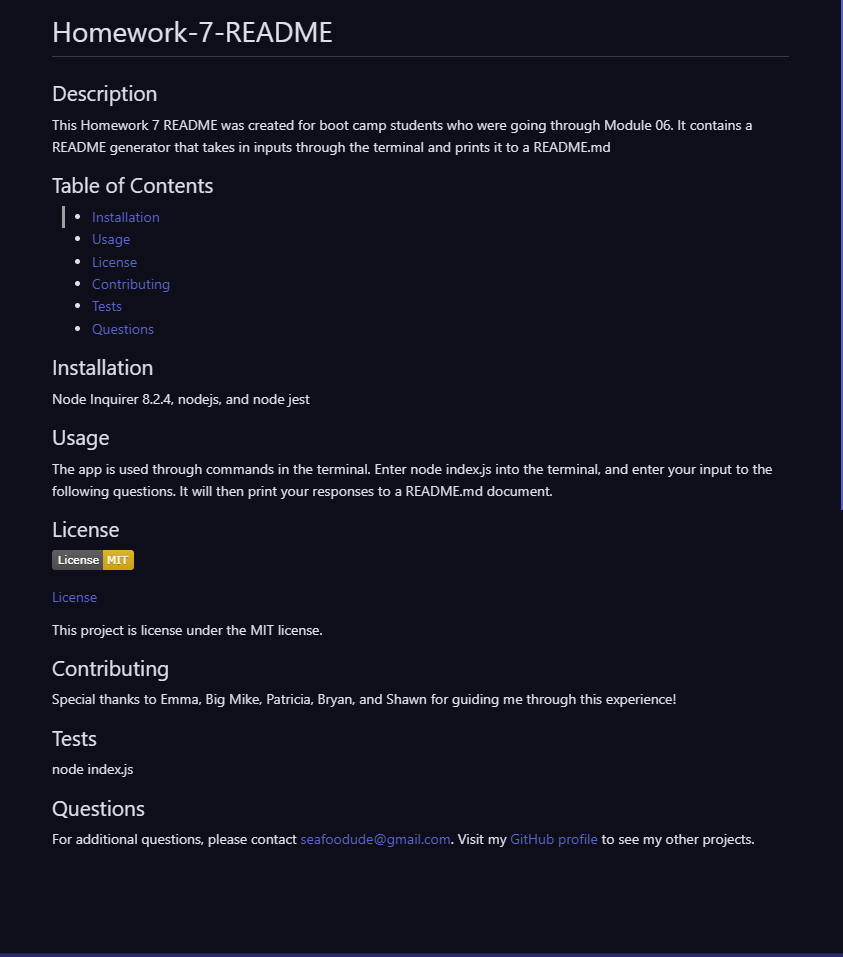
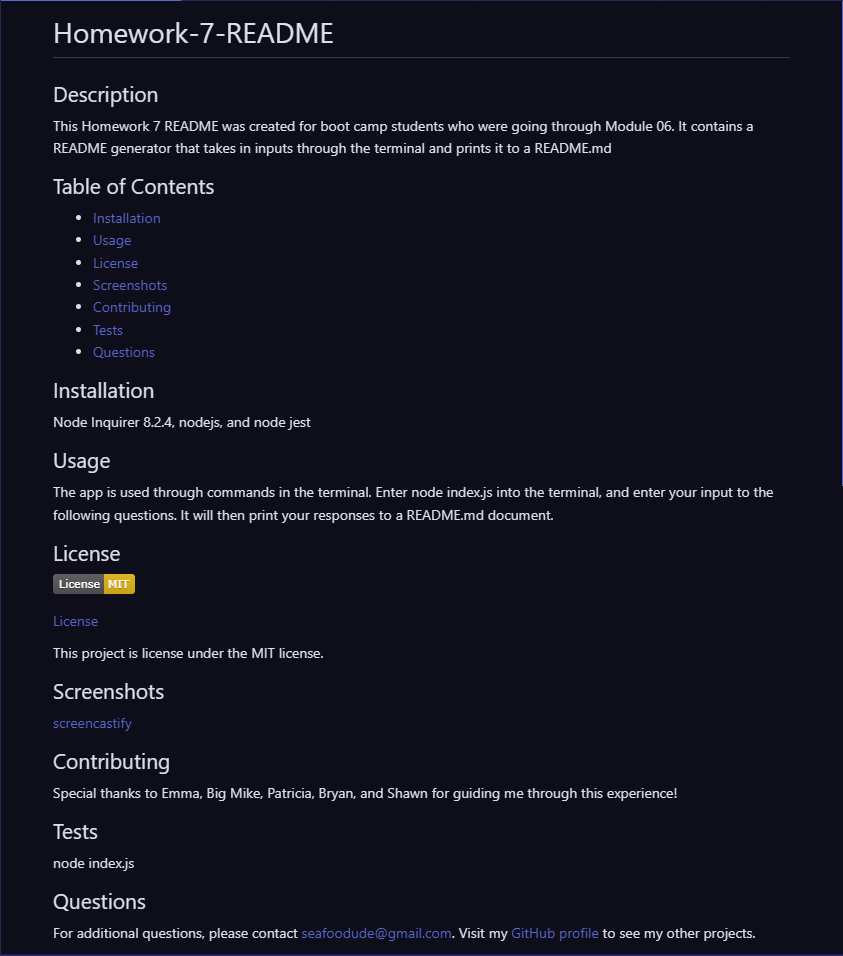
finished readme

diff --git a/README.md b/README.md
@@ -9,6 +9,7 @@
   * [Installation](#installation)
   * [Usage](#usage)
   * [License](#license)
+  * [Screenshots](#screenshots)
   * [Contributing](#contributing)
   * [Tests](#tests)
   * [Questions](#questions)
@@ -28,6 +29,11 @@
   [License](#license)
 
   This project is license under the MIT license.
+
+  ## Screenshots
+
+  [screencastify](https://)
+  ![Screenshot of README](./assets/readmeSS.PNG)
 
   ## Contributing
 
